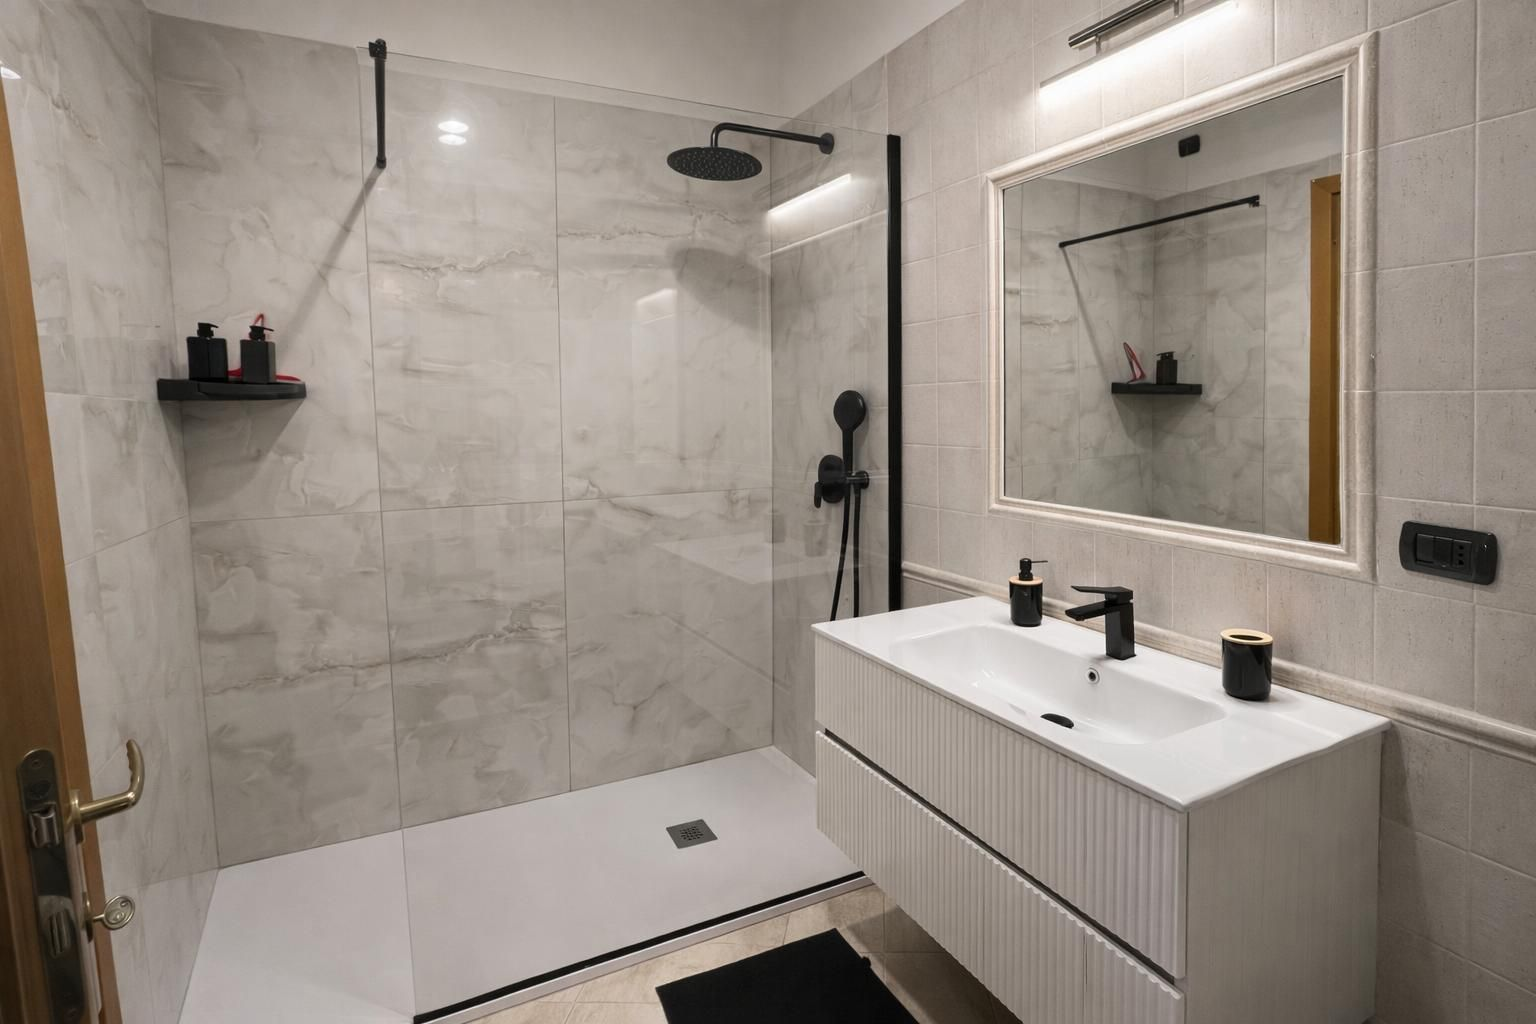
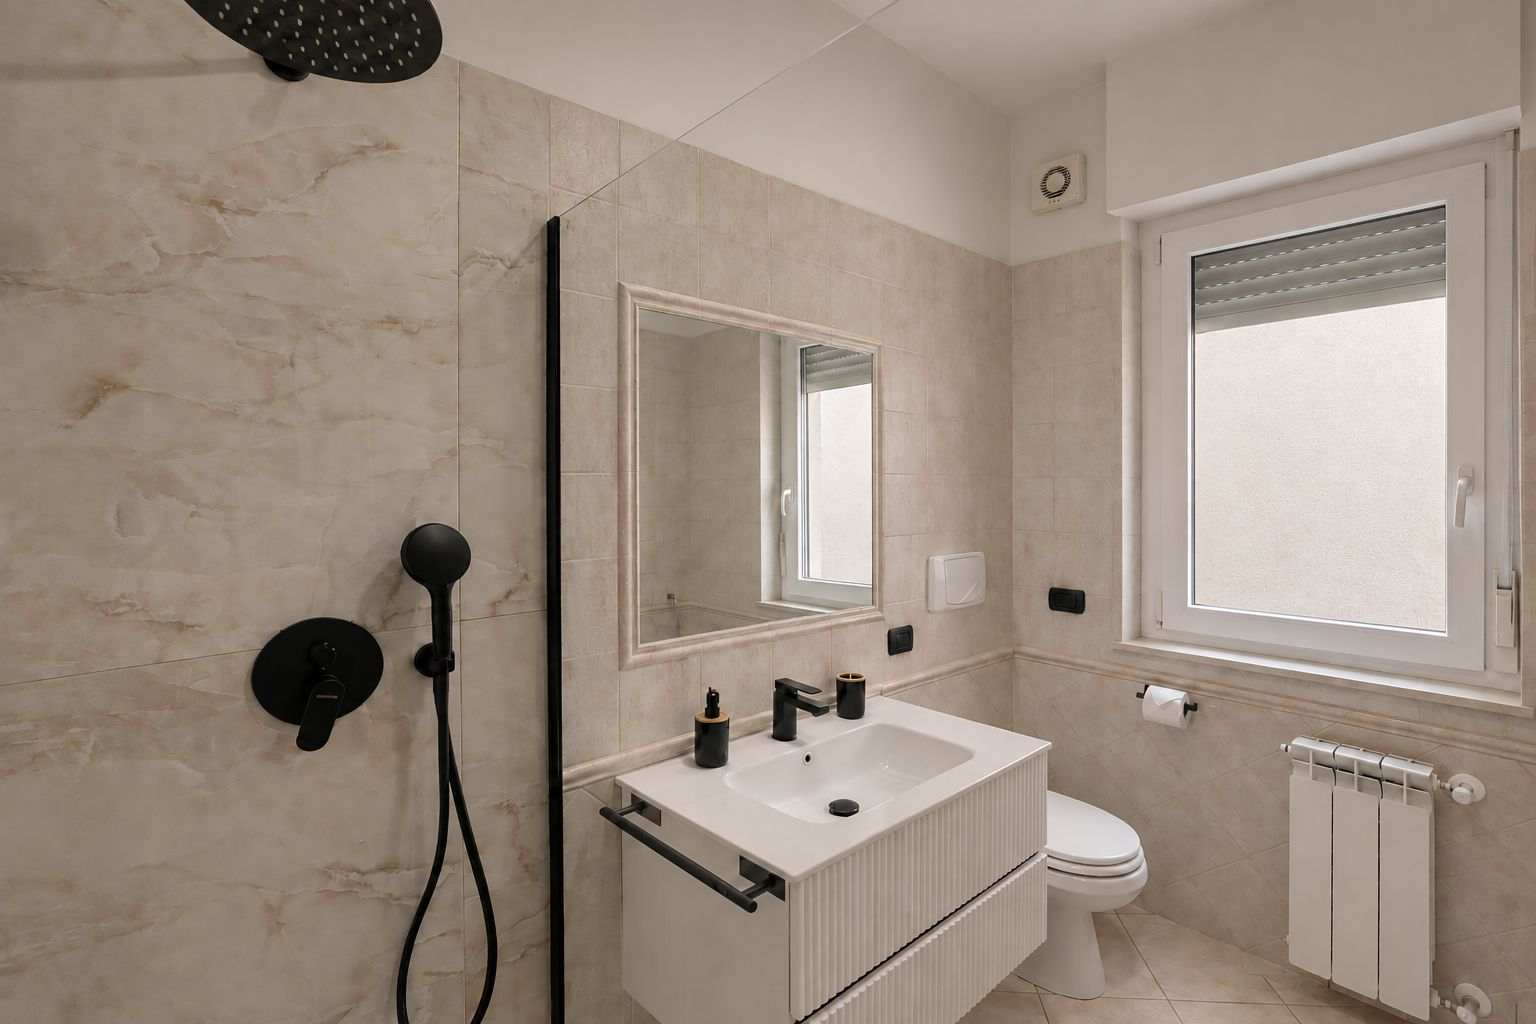
Botticelli: nuova foto bagno (stessa inquadratura del prima); preloader senza 'ROMA'
Claude-Session: https://claude.ai/code/session_01Bvn71NShyh76c8txYLHMM4

diff --git a/index.html b/index.html
@@ -510,7 +510,7 @@ footer .wrap{display:flex;justify-content:space-between;gap:20px;flex-wrap:wrap;
 </head>
 <body>
 
-<div id="loader"><div class="lmono"><span class="gf">G<i></i>F</span><small>ROMA</small></div><div class="bar"></div></div>
+<div id="loader"><div class="lmono"><span class="gf">G<i></i>F</span></div><div class="bar"></div></div>
 <div class="cursor"></div><div class="cursor-ring"></div>
 
 <!-- ================= HEADER ================= -->
@@ -757,7 +757,7 @@ footer .wrap{display:flex;justify-content:space-between;gap:20px;flex-wrap:wrap;
    ========================================================= */
 const CONFIG = {
   // cambia questo numero quando sostituisci una foto con lo stesso nome (forza il browser a ricaricarla)
-  versioneFoto: "4",
+  versioneFoto: "5",
   // Video di Roma in apertura (Pexels, gratuito). Se vuoi usare il tuo: "img/roma.mp4"
   heroVideo: "https://videos.pexels.com/video-files/29947195/12852219_2560_1440_30fps.mp4",
   heroImage: "https://images.pexels.com/videos/29947195/central-rome-citta-del-vaticano-classic-italy-daybreak-29947195.jpeg?auto=compress&w=1920",  // mostrata mentre il video carica
@@ -812,13 +812,13 @@ const CONFIG = {
         "Soggiorno":       ["img/botticelli/soggiorno-prima.jpg", "img/botticelli/soggiorno-dopo.jpg"],
         "Cucina":          ["img/botticelli/cucina-prima.jpg",    "img/botticelli/cucina-dopo.jpg"],
         "Camera da letto": ["img/botticelli/camera-prima.jpg",    "img/botticelli/camera-dopo.jpg"],
-        "Bagno":           ["img/botticelli/bagno-prima.jpg",     "img/botticelli/bagno-dopo.jpg"],
+        "Bagno":           ["img/botticelli/bagno-prima-2.jpg",   "img/botticelli/bagno-dopo.jpg"],
         "Balcone":         ["img/botticelli/balcone-prima.jpg",   "img/botticelli/balcone-dopo.jpg"]
       },
       // foto aggiuntive solo per la galleria
       altreFoto: {
         "Soggiorno — prima":         "img/botticelli/soggiorno-prima-2.jpg",
-        "Bagno — prima":             "img/botticelli/bagno-prima-2.jpg"
+        "Bagno — prima":             "img/botticelli/bagno-prima.jpg"
       }
     }
   ],
